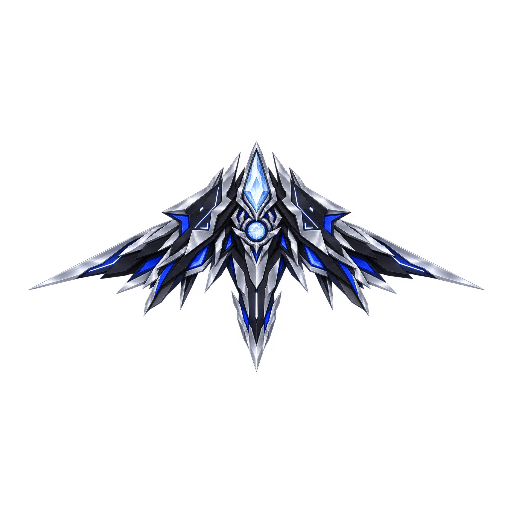
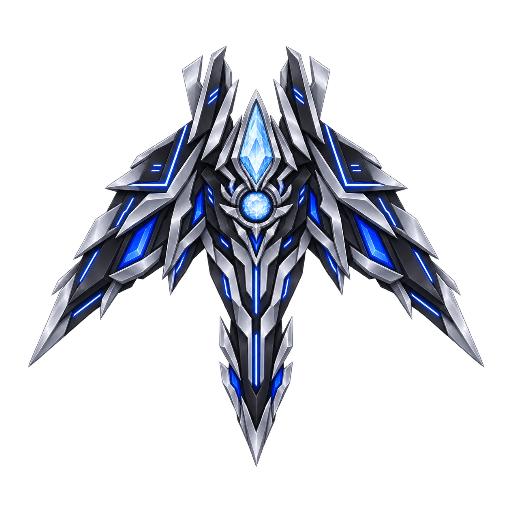
V233C (thử): SS tàu 6 vẽ lại đúng tỉ lệ, bỏ phóng thân tạm
Claude-Session: https://claude.ai/code/session_01AseaWCP472YazYg4XKBJxW

Changed region(s): [[0.0625, 0.0938, 0.9375, 0.9062]]

diff --git a/src/btfx218.js b/src/btfx218.js
@@ -83,7 +83,7 @@
   //  chủ dự án chọn 12/11 11:10): độ chói → màu tuyệt đối, vẽ cộng sáng. Mỗi bậc: tỉ lệ cánh k, lệch gốc vai off (so với bậc tím).
   //  Nhịp học từ video 86546 (soi 15 khung/giây): dồn sáng sau lưng ~0,35 s → bừng sáng ở tâm (không vòng tròn) → cánh hiện ~85 % cỡ
   //  rồi xòe ra trong ~0,28 s (vượt nhẹ rồi về) → giữ: cánh lay, thở, tàn lửa rơi. Tắt: window.BUNG231=false
-  const RAMP={5:{"thuong":{"k":0.62,"img":"so","fx":1536,"off":[[19,0],[-14,0]],"bung":[[0.0,0,0,0],[0.0312,0,0,0],[0.0625,0,0,0],[0.0938,0,0,0],[0.125,0,0,0],[0.1562,0,0,0],[0.1875,0,0,0],[0.2188,0,0,0],[0.25,0,0,0],[0.2812,0,0,0],[0.3125,4,5,6],[0.3438,17,21,27],[0.375,31,38,49],[0.4062,45,56,71],[0.4375,58,71,90],[0.4688,68,84,107],[0.5,77,95,121],[0.5312,82,101,129],[0.5625,86,107,135],[0.5938,89,111,141],[0.625,91,113,144],[0.6562,93,115,145],[0.6875,99,119,147],[0.7188,104,123,148],[0.75,112,128,151],[0.7812,121,136,156],[0.8125,132,144,163],[0.8438,141,152,168],[0.875,150,158,171],[0.9062,157,163,173],[0.9375,163,167,174],[0.9688,169,173,181],[1.0,169,173,181]]},"luc":{"k":0.74,"img":"so","fx":1536,"off":[[-18,0],[23,0]],"bung":[[0.0,0,0,0],[0.0312,0,0,0],[0.0625,0,0,0],[0.0938,0,0,0],[0.125,0,0,0],[0.1562,0,0,0],[0.1875,0,0,0],[0.2188,8,10,3],[0.25,25,30,10],[0.2812,44,52,17],[0.3125,62,74,24],[0.3438,80,94,30],[0.375,97,113,35],[0.4062,110,128,38],[0.4375,122,140,41],[0.4688,130,148,42],[0.5,137,154,43],[0.5312,143,160,43],[0.5625,148,163,42],[0.5938,151,165,41],[0.625,153,166,50],[0.6562,155,167,61],[0.6875,158,169,72],[0.7188,162,172,85],[0.75,168,178,99],[0.7812,176,184,114],[0.8125,182,190,129],[0.8438,187,193,144],[0.875,190,196,159],[0.9062,193,197,172],[0.9375,197,201,181],[0.9688,202,206,186],[1.0,202,206,186]]},"lam":{"k":0.87,"img":"so","fx":1536,"off":[[-8,0],[13,0]],"bung":[[0.0,0,0,0],[0.0312,0,0,0],[0.0625,0,0,0],[0.0938,0,0,0],[0.125,3,4,13],[0.1562,8,11,34],[0.1875,14,18,56],[0.2188,21,27,78],[0.25,28,38,99],[0.2812,35,50,118],[0.3125,42,62,134],[0.3438,49,74,149],[0.375,55,85,159],[0.4062,60,95,167],[0.4375,65,105,173],[0.4688,70,116,179],[0.5,74,125,182],[0.5312,78,133,184],[0.5625,84,140,186],[0.5938,92,145,187],[0.625,101,150,188],[0.6562,111,155,191],[0.6875,121,162,194],[0.7188,134,171,200],[0.75,147,181,206],[0.7812,160,189,211],[0.8125,173,198,216],[0.8438,185,205,219],[0.875,197,211,221],[0.9062,208,217,222],[0.9375,214,222,227],[0.9688,217,226,231],[1.0,217,226,231]]},"tim":{"k":1,"img":"so","mau":"so_mau","fx":1536,"off":[[0,0],[0,0]],"bung":[[0.0,0,0,0],[0.034,0,11,17],[0.09,0,28,56],[0.156,0,47,101],[0.217,0,65,137],[0.283,1,85,167],[0.343,6,107,182],[0.407,11,131,194],[0.47,19,155,200],[0.532,32,176,203],[0.595,50,194,205],[0.658,69,211,206],[0.721,98,224,206],[0.783,133,234,206],[0.845,176,239,207],[0.911,224,242,207],[0.949,251,245,207]]},"tim5":{"k":1,"img":"so","fx":1536,"off":[[-29,0],[34,0]],"bung":[[0.0,0,0,0],[0.0312,11,3,17],[0.0625,26,8,40],[0.0938,41,13,63],[0.125,58,18,86],[0.1562,77,25,109],[0.1875,95,31,129],[0.2188,114,38,149],[0.25,130,44,164],[0.2812,148,51,179],[0.3125,161,56,188],[0.3438,174,62,197],[0.375,186,67,203],[0.4062,199,72,209],[0.4375,208,77,213],[0.4688,216,80,213],[0.5,218,82,209],[0.5312,219,92,211],[0.5625,220,102,213],[0.5938,221,112,214],[0.625,224,124,218],[0.6562,228,136,222],[0.6875,234,150,229],[0.7188,241,165,237],[0.75,247,180,243],[0.7812,252,195,249],[0.8125,255,209,253],[0.8438,255,222,255],[0.875,255,235,255],[0.9062,255,246,255],[0.9375,255,252,255],[0.9688,255,255,255],[1.0,255,255,255]],"bung3":[[0.0,0,0,0],[0.0312,11,3,13],[0.0625,27,8,30],[0.0938,43,13,47],[0.125,59,19,65],[0.1562,75,26,82],[0.1875,89,33,97],[0.2188,103,41,112],[0.25,114,48,123],[0.2812,125,56,135],[0.3125,132,62,141],[0.3438,138,69,148],[0.375,143,74,152],[0.4062,148,81,157],[0.4375,151,86,159],[0.4688,154,91,162],[0.5,156,96,163],[0.5312,158,101,164],[0.5625,159,105,165],[0.5938,160,110,166],[0.625,163,115,168],[0.6562,166,121,171],[0.6875,172,129,176],[0.7188,177,138,181],[0.75,182,145,185],[0.7812,187,153,189],[0.8125,190,160,191],[0.8438,192,166,194],[0.875,194,172,195],[0.9062,196,177,196],[0.9375,201,181,201],[0.9688,203,183,203],[1.0,203,183,203]],"img3":"so3"},"ss":{"k":1.08,"img":"so","fx":1536,"off":[[19,0],[-13,0]],"bung":[[0.0,0,0,0],[0.0312,2,4,18],[0.0625,5,11,42],[0.0938,8,17,67],[0.125,12,25,92],[0.1562,16,34,116],[0.1875,21,43,138],[0.2188,25,54,158],[0.25,29,63,175],[0.2812,33,74,191],[0.3125,37,82,201],[0.3438,40,91,209],[0.375,43,98,216],[0.4062,47,107,223],[0.4375,49,114,226],[0.4688,52,121,230],[0.5,55,127,232],[0.5312,68,136,233],[0.5625,82,145,235],[0.5938,96,153,236],[0.625,110,163,239],[0.6562,126,174,242],[0.6875,144,188,250],[0.7188,163,202,255],[0.75,181,215,255],[0.7812,200,229,255],[0.8125,218,241,255],[0.8438,236,253,255],[0.875,253,255,255],[0.9062,255,255,255],[0.9375,255,255,255],[0.9688,255,255,255],[1.0,255,255,255]],"bung3":[[0.0,0,0,0],[0.0312,4,10,18],[0.0625,10,23,42],[0.0938,16,37,67],[0.125,24,52,92],[0.1562,33,67,116],[0.1875,43,82,138],[0.2188,54,97,158],[0.25,64,109,175],[0.2812,76,123,191],[0.3125,85,132,201],[0.3438,94,141,209],[0.375,103,149,216],[0.4062,113,158,223],[0.4375,121,164,226],[0.4688,129,170,230],[0.5,136,175,232],[0.5312,144,180,233],[0.5625,151,185,235],[0.5938,158,189,236],[0.625,167,196,239],[0.6562,176,203,242],[0.6875,188,213,250],[0.7188,201,223,255],[0.75,213,232,255],[0.7812,225,242,255],[0.8125,235,249,255],[0.8438,245,255,255],[0.875,254,255,255],[0.9062,255,255,255],[0.9375,255,255,255],[0.9688,255,255,255],[1.0,255,255,255]],"img3":"so3"}},6:{"thuong":{"k":0.62,"img":"kiem","fx":1280,"off":[[59,0],[-59,0]],"bung":[[0.0,0,0,0],[0.0312,0,0,0],[0.0625,0,0,0],[0.0938,0,0,0],[0.125,0,0,0],[0.1562,0,0,0],[0.1875,0,0,0],[0.2188,0,0,0],[0.25,0,0,0],[0.2812,0,0,0],[0.3125,2,5,8],[0.3438,6,17,26],[0.375,11,30,45],[0.4062,18,43,65],[0.4375,26,58,87],[0.4688,36,73,109],[0.5,46,85,128],[0.5312,51,87,130],[0.5625,58,92,137],[0.5938,66,97,145],[0.625,74,102,152],[0.6562,82,107,158],[0.6875,91,115,163],[0.7188,100,124,168],[0.75,110,134,173],[0.7812,120,143,177],[0.8125,129,151,180],[0.8438,137,158,181],[0.875,144,164,181],[0.9062,151,170,181],[0.9375,156,174,181],[0.9688,157,174,181],[1.0,157,174,181]]},"luc":{"k":0.74,"img":"kiem","fx":1280,"off":[[-5,0],[5,0]],"bung":[[0.0,0,0,0],[0.0312,0,0,0],[0.0625,0,0,0],[0.0938,0,0,0],[0.125,0,0,0],[0.1562,0,0,0],[0.1875,0,0,0],[0.2188,2,12,5],[0.25,4,30,13],[0.2812,7,48,20],[0.3125,11,68,29],[0.3438,17,90,39],[0.375,24,112,49],[0.4062,31,133,59],[0.4375,38,146,65],[0.4688,42,149,66],[0.5,47,156,70],[0.5312,54,165,74],[0.5625,60,172,78],[0.5938,66,178,81],[0.625,76,184,90],[0.6562,87,188,100],[0.6875,98,193,111],[0.7188,110,198,122],[0.75,122,202,133],[0.7812,134,205,143],[0.8125,144,206,153],[0.8438,154,207,161],[0.875,164,207,170],[0.9062,174,206,178],[0.9375,178,206,182],[0.9688,178,207,182],[1.0,178,207,182]]},"lam":{"k":0.87,"img":"kiem","fx":1280,"off":[[3,0],[-4,0]],"bung":[[0.0,0,0,0],[0.0312,0,0,0],[0.0625,0,0,0],[0.0938,0,0,0],[0.125,3,5,16],[0.1562,5,10,33],[0.1875,8,16,51],[0.2188,12,25,71],[0.25,16,36,92],[0.2812,20,49,114],[0.3125,25,64,136],[0.3438,30,81,158],[0.375,32,92,165],[0.4062,34,100,167],[0.4375,37,112,176],[0.4688,40,125,184],[0.5,43,137,191],[0.5312,46,150,197],[0.5625,53,161,203],[0.5938,67,168,208],[0.625,81,175,213],[0.6562,96,183,218],[0.6875,112,191,223],[0.7188,128,198,226],[0.75,144,205,230],[0.7812,159,210,231],[0.8125,174,215,232],[0.8438,188,219,232],[0.875,202,223,232],[0.9062,216,226,231],[0.9375,218,227,231],[0.9688,218,227,232],[1.0,218,227,232]]},"tim":{"k":1,"img":"kiem","mau":"kiem_mau","fx":1280,"off":[[0,0],[0,0]],"bung":[[0.0,0,0,0],[0.03,19,3,0],[0.09,51,13,0],[0.155,92,20,0],[0.217,135,26,0],[0.279,177,31,1],[0.342,182,55,5],[0.406,199,73,6],[0.47,213,95,6],[0.532,224,115,6],[0.597,233,139,3],[0.658,243,161,3],[0.724,250,184,5],[0.785,252,209,11],[0.846,252,229,52],[0.913,251,241,155],[0.953,252,245,215]]},"tim5":{"k":1,"img":"kiem","fx":1280,"off":[[-42,0],[40,0]],"bung":[[0.0,0,0,0],[0.0312,21,6,3],[0.0625,39,10,5],[0.0938,58,15,8],[0.125,79,24,11],[0.1562,100,35,15],[0.1875,124,49,19],[0.2188,147,65,24],[0.25,170,83,29],[0.2812,191,102,34],[0.3125,194,113,36],[0.3438,197,124,38],[0.375,206,139,42],[0.4062,215,155,45],[0.4375,222,171,49],[0.4688,230,187,52],[0.5,236,203,55],[0.5312,242,211,70],[0.5625,246,218,85],[0.5938,251,225,101],[0.625,255,232,117],[0.6562,255,240,134],[0.6875,255,246,151],[0.7188,255,253,167],[0.75,255,255,183],[0.7812,255,255,199],[0.8125,255,255,214],[0.8438,255,255,229],[0.875,255,255,244],[0.9062,255,255,255],[0.9375,255,255,255],[0.9688,255,255,255],[1.0,255,255,255]],"bung3":[[0.0,0,0,0],[0.0312,16,4,7],[0.0625,29,7,13],[0.0938,43,10,19],[0.125,59,15,27],[0.1562,75,21,35],[0.1875,93,29,45],[0.2188,110,38,56],[0.25,127,47,68],[0.2812,144,57,79],[0.3125,146,62,83],[0.3438,148,67,88],[0.375,155,74,95],[0.4062,161,81,102],[0.4375,167,89,109],[0.4688,172,97,116],[0.5,177,104,123],[0.5312,181,112,130],[0.5625,185,119,136],[0.5938,188,126,143],[0.625,192,134,150],[0.6562,197,143,157],[0.6875,199,150,164],[0.7188,202,158,170],[0.75,203,164,175],[0.7812,204,171,180],[0.8125,204,176,184],[0.8438,204,182,189],[0.875,204,187,192],[0.9062,203,191,195],[0.9375,204,192,196],[0.9688,204,192,196],[1.0,204,192,196]],"img3":"kiem3"},"ss":{"k":1.08,"img":"kiem","fx":1280,"off":[[-16,0],[15,0]],"bung":[[0.0,0,0,0],[0.0312,23,17,4],[0.0625,42,31,7],[0.0938,61,45,11],[0.125,84,63,16],[0.1562,107,82,21],[0.1875,132,103,28],[0.2188,157,124,36],[0.25,181,146,44],[0.2812,204,167,52],[0.3125,207,173,56],[0.3438,210,178,59],[0.375,219,190,65],[0.4062,229,201,71],[0.4375,237,211,77],[0.4688,245,222,83],[0.5,251,231,89],[0.5312,255,239,103],[0.5625,255,245,118],[0.5938,255,251,133],[0.625,255,255,148],[0.6562,255,255,165],[0.6875,255,255,181],[0.7188,255,255,197],[0.75,255,255,211],[0.7812,255,255,226],[0.8125,255,255,240],[0.8438,255,255,254],[0.875,255,255,255],[0.9062,255,255,255],[0.9375,255,255,255],[0.9688,255,255,255],[1.0,255,255,255]],"bung3":[[0.0,0,0,0],[0.0312,4,23,20],[0.0625,7,42,36],[0.0938,11,61,53],[0.125,17,84,73],[0.1562,24,107,94],[0.1875,33,132,116],[0.2188,44,157,139],[0.25,56,181,161],[0.2812,69,204,182],[0.3125,76,207,186],[0.3438,83,210,190],[0.375,93,219,199],[0.4062,104,229,209],[0.4375,114,237,217],[0.4688,125,245,225],[0.5,135,251,232],[0.5312,146,255,239],[0.5625,156,255,245],[0.5938,167,255,251],[0.625,178,255,255],[0.6562,190,255,255],[0.6875,201,255,255],[0.7188,211,255,255],[0.75,221,255,255],[0.7812,230,255,255],[0.8125,238,255,255],[0.8438,247,255,255],[0.875,254,255,255],[0.9062,255,255,255],[0.9375,255,255,255],[0.9688,255,255,255],[1.0,255,255,255]],"img3":"kiem3"}},7:{"thuong":{"k":0.62,"bung":[[0.0,0,0,0],[0.0312,0,0,0],[0.0625,0,0,0],[0.0938,0,0,0],[0.125,0,0,0],[0.1562,0,0,0],[0.1875,0,0,0],[0.2188,0,0,0],[0.25,0,0,0],[0.2812,0,0,0],[0.3125,8,2,1],[0.3438,26,6,5],[0.375,43,10,8],[0.4062,61,15,11],[0.4375,77,20,15],[0.4688,93,26,18],[0.5,109,32,21],[0.5312,122,38,24],[0.5625,133,43,27],[0.5938,143,49,29],[0.625,152,54,32],[0.6562,157,59,34],[0.6875,163,67,41],[0.7188,171,76,49],[0.75,176,84,56],[0.7812,179,92,63],[0.8125,180,99,70],[0.8438,181,106,77],[0.875,181,112,83],[0.9062,181,118,89],[0.9375,181,123,94],[0.9688,181,123,94],[1.0,181,123,94]],"off":[[-2.0,53.0],[2.0,54.0]]},"luc":{"k":0.74,"bung":[[0.0,0,0,0],[0.0312,0,0,0],[0.0625,0,0,0],[0.0938,0,0,0],[0.125,0,0,0],[0.1562,0,0,0],[0.1875,0,0,0],[0.2188,9,4,12],[0.25,22,10,30],[0.2812,35,16,47],[0.3125,50,24,64],[0.3438,66,32,81],[0.375,83,40,97],[0.4062,102,49,113],[0.4375,120,58,128],[0.4688,138,67,141],[0.5,151,74,149],[0.5312,161,80,152],[0.5625,171,85,155],[0.5938,177,89,154],[0.625,182,96,158],[0.6562,189,107,166],[0.6875,196,117,173],[0.7188,201,127,179],[0.75,203,136,183],[0.7812,205,144,186],[0.8125,206,152,188],[0.8438,206,159,190],[0.875,206,167,191],[0.9062,206,174,193],[0.9375,206,177,193],[0.9688,206,177,193],[1.0,206,177,193]],"bung2":[[0.0,0,0,0],[0.0312,4,4,8],[0.0625,8,8,16],[0.0938,11,12,24],[0.125,15,16,32],[0.1562,19,21,39],[0.1875,23,25,47],[0.2188,26,29,55],[0.25,30,33,63],[0.2812,34,37,71],[0.3125,37,40,77],[0.3438,39,42,81],[0.375,40,44,85],[0.4062,42,46,88],[0.4375,44,48,92],[0.4688,46,50,96],[0.5,47,52,99],[0.5312,49,54,103],[0.5625,51,56,107],[0.5938,53,58,110],[0.625,54,59,114],[0.6562,56,61,118],[0.6875,58,63,121],[0.7188,60,65,125],[0.75,62,67,129],[0.7812,63,69,132],[0.8125,65,71,136],[0.8438,66,72,138],[0.875,66,72,138],[0.9062,66,72,138],[0.9375,66,72,138],[0.9688,66,72,138],[1.0,66,72,138]],"off":[[1.0,6.0],[-1.0,7.0]]},"lam":{"k":0.87,"bung":[[0.0,0,0,0],[0.0312,0,0,0],[0.0625,0,0,0],[0.0938,0,0,0],[0.125,4,6,16],[0.1562,8,13,34],[0.1875,13,19,50],[0.2188,19,26,68],[0.25,27,33,85],[0.2812,36,39,101],[0.3125,46,46,117],[0.3438,57,53,133],[0.375,68,59,147],[0.4062,80,65,160],[0.4375,91,70,170],[0.4688,103,75,180],[0.5,115,80,189],[0.5312,127,85,197],[0.5625,136,91,202],[0.5938,145,103,208],[0.625,155,116,215],[0.6562,164,129,221],[0.6875,172,141,226],[0.7188,179,153,228],[0.75,186,164,230],[0.7812,191,175,231],[0.8125,197,185,231],[0.8438,202,196,231],[0.875,207,206,231],[0.9062,212,216,231],[0.9375,213,217,231],[0.9688,213,217,231],[1.0,213,217,231]],"bung2":[[0.0,0,0,0],[0.0312,4,10,12],[0.0625,9,19,25],[0.0938,13,29,37],[0.125,18,39,50],[0.1562,22,49,62],[0.1875,26,58,74],[0.2188,31,68,87],[0.25,35,78,99],[0.2812,39,87,112],[0.3125,43,95,121],[0.3438,45,100,127],[0.375,47,104,133],[0.4062,49,109,139],[0.4375,51,113,144],[0.4688,53,118,150],[0.5,55,122,156],[0.5312,57,127,162],[0.5625,59,131,167],[0.5938,61,136,173],[0.625,63,140,179],[0.6562,65,145,185],[0.6875,67,149,190],[0.7188,69,154,196],[0.75,71,158,202],[0.7812,73,163,208],[0.8125,75,167,214],[0.8438,77,170,217],[0.875,77,170,217],[0.9062,77,170,217],[0.9375,77,170,217],[0.9688,77,170,217],[1.0,77,170,217]],"off":[[-14.0,-2.0],[14.0,-1.0]]},"tim":{"k":1,"bung":[[0.0,0,0,0],[0.035,22,4,0],[0.094,53,13,0],[0.157,87,23,0],[0.216,117,33,0],[0.279,149,44,0],[0.343,175,59,0],[0.406,194,77,2],[0.469,213,94,7],[0.532,222,115,12],[0.596,237,135,18],[0.657,246,157,24],[0.72,250,180,32],[0.782,251,202,51],[0.848,251,224,89],[0.92,251,240,173],[0.946,251,243,206]],"bung2":[[0.0,0,0,0],[0.027,0,9,11],[0.096,6,28,40],[0.148,11,44,67],[0.22,12,67,103],[0.281,16,86,131],[0.342,21,105,153],[0.405,25,128,171],[0.469,11,155,191],[0.533,4,184,203],[0.595,3,211,206],[0.647,43,224,206],[0.717,99,225,206],[0.781,137,232,206],[0.831,166,238,207]],"off":[[0,0],[0,0]]},"tim5":{"k":1,"bung":[[0.0,0,0,0],[0.0312,21,4,9],[0.0625,39,8,17],[0.0938,57,11,25],[0.125,75,17,31],[0.1562,93,25,37],[0.1875,111,35,42],[0.2188,128,45,46],[0.25,145,57,50],[0.2812,162,71,53],[0.3125,176,84,54],[0.3438,189,98,54],[0.375,199,112,54],[0.4062,210,126,53],[0.4375,220,141,51],[0.4688,230,157,49],[0.5,235,170,46],[0.5312,240,179,60],[0.5625,247,189,75],[0.5938,255,201,91],[0.625,255,210,107],[0.6562,255,219,123],[0.6875,255,226,139],[0.7188,255,233,154],[0.75,255,239,169],[0.7812,255,245,184],[0.8125,255,251,198],[0.8438,255,255,213],[0.875,255,255,228],[0.9062,255,255,239],[0.9375,255,255,239],[0.9688,255,255,239],[1.0,255,255,239]],"bung2":[[0.0,0,0,0],[0.0312,7,12,15],[0.0625,15,24,29],[0.0938,22,36,44],[0.125,30,48,58],[0.1562,37,60,73],[0.1875,45,72,88],[0.2188,52,84,102],[0.25,59,96,117],[0.2812,67,108,131],[0.3125,73,118,143],[0.3438,76,123,150],[0.375,80,129,156],[0.4062,83,134,163],[0.4375,87,140,170],[0.4688,90,145,177],[0.5,93,151,183],[0.5312,97,157,190],[0.5625,100,162,197],[0.5938,104,168,204],[0.625,107,173,211],[0.6562,111,179,217],[0.6875,114,185,224],[0.7188,118,190,231],[0.75,121,196,238],[0.7812,125,201,244],[0.8125,128,207,251],[0.8438,130,210,255],[0.875,130,210,255],[0.9062,130,210,255],[0.9375,130,210,255],[0.9688,130,210,255],[1.0,130,210,255]],"bung3":[[0.0,0,0,0],[0.0312,16,2,7],[0.0625,30,5,13],[0.0938,43,7,18],[0.125,56,10,24],[0.1562,70,14,30],[0.1875,83,18,35],[0.2188,96,23,40],[0.25,109,29,44],[0.2812,121,35,49],[0.3125,132,40,52],[0.3438,142,47,56],[0.375,150,52,58],[0.4062,157,59,60],[0.4375,165,65,62],[0.4688,172,72,64],[0.5,176,77,65],[0.5312,180,83,65],[0.5625,186,90,67],[0.5938,192,97,68],[0.625,195,106,77],[0.6562,199,115,89],[0.6875,201,124,100],[0.7188,202,133,111],[0.75,203,141,121],[0.7812,203,149,132],[0.8125,203,157,142],[0.8438,203,165,153],[0.875,203,173,163],[0.9062,203,179,171],[0.9375,203,179,171],[0.9688,203,179,171],[1.0,203,179,171]],"off":[[3.0,-5.0],[-2.0,-3.0]]},"ss":{"k":1.08,"bung":[[0.0,0,0,0],[0.0312,23,6,4],[0.0625,42,12,7],[0.0938,61,17,10],[0.125,80,25,13],[0.1562,100,36,18],[0.1875,118,49,23],[0.2188,136,64,29],[0.25,154,80,35],[0.2812,172,98,41],[0.3125,187,116,47],[0.3438,202,135,54],[0.375,212,153,59],[0.4062,223,172,66],[0.4375,234,193,72],[0.4688,245,208,83],[0.5,250,215,96],[0.5312,255,222,109],[0.5625,255,232,124],[0.5938,255,242,140],[0.625,255,250,155],[0.6562,255,255,170],[0.6875,255,255,184],[0.7188,255,255,198],[0.75,255,255,211],[0.7812,255,255,224],[0.8125,255,255,236],[0.8438,255,255,249],[0.875,255,255,255],[0.9062,255,255,255],[0.9375,255,255,255],[0.9688,255,255,255],[1.0,255,255,255]],"bung2":[[0.0,0,0,0],[0.0312,11,14,15],[0.0625,23,27,29],[0.0938,34,41,44],[0.125,46,55,58],[0.1562,57,69,73],[0.1875,69,82,88],[0.2188,80,96,102],[0.25,92,110,117],[0.2812,103,124,131],[0.3125,112,134,143],[0.3438,117,141,150],[0.375,123,147,156],[0.4062,128,153,163],[0.4375,133,160,170],[0.4688,139,166,177],[0.5,144,173,183],[0.5312,149,179,190],[0.5625,154,185,197],[0.5938,160,192,204],[0.625,165,198,211],[0.6562,170,205,217],[0.6875,176,211,224],[0.7188,181,217,231],[0.75,186,224,238],[0.7812,192,230,244],[0.8125,197,236,251],[0.8438,200,240,255],[0.875,200,240,255],[0.9062,200,240,255],[0.9375,200,240,255],[0.9688,200,240,255],[1.0,200,240,255]],"bung3":[[0.0,0,0,0],[0.0312,8,5,23],[0.0625,15,10,42],[0.0938,21,14,61],[0.125,29,21,80],[0.1562,37,28,100],[0.1875,45,37,118],[0.2188,53,46,136],[0.25,62,56,154],[0.2812,71,68,172],[0.3125,78,78,187],[0.3438,87,90,202],[0.375,93,100,212],[0.4062,100,111,223],[0.4375,107,123,234],[0.4688,115,136,245],[0.5,120,145,250],[0.5312,125,155,255],[0.5625,131,167,255],[0.5938,138,180,255],[0.625,151,192,255],[0.6562,166,204,255],[0.6875,180,215,255],[0.7188,193,225,255],[0.75,206,234,255],[0.7812,219,244,255],[0.8125,231,253,255],[0.8438,244,255,255],[0.875,255,255,255],[0.9062,255,255,255],[0.9375,255,255,255],[0.9688,255,255,255],[1.0,255,255,255]],"off":[[13.0,-36.0],[-12.0,-34.0]]}}};
+  const RAMP={5:{"thuong":{"k":0.62,"img":"so","fx":1536,"off":[[19,0],[-14,0]],"bung":[[0.0,0,0,0],[0.0312,0,0,0],[0.0625,0,0,0],[0.0938,0,0,0],[0.125,0,0,0],[0.1562,0,0,0],[0.1875,0,0,0],[0.2188,0,0,0],[0.25,0,0,0],[0.2812,0,0,0],[0.3125,4,5,6],[0.3438,17,21,27],[0.375,31,38,49],[0.4062,45,56,71],[0.4375,58,71,90],[0.4688,68,84,107],[0.5,77,95,121],[0.5312,82,101,129],[0.5625,86,107,135],[0.5938,89,111,141],[0.625,91,113,144],[0.6562,93,115,145],[0.6875,99,119,147],[0.7188,104,123,148],[0.75,112,128,151],[0.7812,121,136,156],[0.8125,132,144,163],[0.8438,141,152,168],[0.875,150,158,171],[0.9062,157,163,173],[0.9375,163,167,174],[0.9688,169,173,181],[1.0,169,173,181]]},"luc":{"k":0.74,"img":"so","fx":1536,"off":[[-18,0],[23,0]],"bung":[[0.0,0,0,0],[0.0312,0,0,0],[0.0625,0,0,0],[0.0938,0,0,0],[0.125,0,0,0],[0.1562,0,0,0],[0.1875,0,0,0],[0.2188,8,10,3],[0.25,25,30,10],[0.2812,44,52,17],[0.3125,62,74,24],[0.3438,80,94,30],[0.375,97,113,35],[0.4062,110,128,38],[0.4375,122,140,41],[0.4688,130,148,42],[0.5,137,154,43],[0.5312,143,160,43],[0.5625,148,163,42],[0.5938,151,165,41],[0.625,153,166,50],[0.6562,155,167,61],[0.6875,158,169,72],[0.7188,162,172,85],[0.75,168,178,99],[0.7812,176,184,114],[0.8125,182,190,129],[0.8438,187,193,144],[0.875,190,196,159],[0.9062,193,197,172],[0.9375,197,201,181],[0.9688,202,206,186],[1.0,202,206,186]]},"lam":{"k":0.87,"img":"so","fx":1536,"off":[[-8,0],[13,0]],"bung":[[0.0,0,0,0],[0.0312,0,0,0],[0.0625,0,0,0],[0.0938,0,0,0],[0.125,3,4,13],[0.1562,8,11,34],[0.1875,14,18,56],[0.2188,21,27,78],[0.25,28,38,99],[0.2812,35,50,118],[0.3125,42,62,134],[0.3438,49,74,149],[0.375,55,85,159],[0.4062,60,95,167],[0.4375,65,105,173],[0.4688,70,116,179],[0.5,74,125,182],[0.5312,78,133,184],[0.5625,84,140,186],[0.5938,92,145,187],[0.625,101,150,188],[0.6562,111,155,191],[0.6875,121,162,194],[0.7188,134,171,200],[0.75,147,181,206],[0.7812,160,189,211],[0.8125,173,198,216],[0.8438,185,205,219],[0.875,197,211,221],[0.9062,208,217,222],[0.9375,214,222,227],[0.9688,217,226,231],[1.0,217,226,231]]},"tim":{"k":1,"img":"so","mau":"so_mau","fx":1536,"off":[[0,0],[0,0]],"bung":[[0.0,0,0,0],[0.034,0,11,17],[0.09,0,28,56],[0.156,0,47,101],[0.217,0,65,137],[0.283,1,85,167],[0.343,6,107,182],[0.407,11,131,194],[0.47,19,155,200],[0.532,32,176,203],[0.595,50,194,205],[0.658,69,211,206],[0.721,98,224,206],[0.783,133,234,206],[0.845,176,239,207],[0.911,224,242,207],[0.949,251,245,207]]},"tim5":{"k":1,"img":"so","fx":1536,"off":[[-18,0],[24,0]],"bung":[[0.0,0,0,0],[0.0312,11,3,17],[0.0625,26,8,40],[0.0938,41,13,63],[0.125,58,18,86],[0.1562,77,25,109],[0.1875,95,31,129],[0.2188,114,38,149],[0.25,130,44,164],[0.2812,148,51,179],[0.3125,161,56,188],[0.3438,174,62,197],[0.375,186,67,203],[0.4062,199,72,209],[0.4375,208,77,213],[0.4688,216,80,213],[0.5,218,82,209],[0.5312,219,92,211],[0.5625,220,102,213],[0.5938,221,112,214],[0.625,224,124,218],[0.6562,228,136,222],[0.6875,234,150,229],[0.7188,241,165,237],[0.75,247,180,243],[0.7812,252,195,249],[0.8125,255,209,253],[0.8438,255,222,255],[0.875,255,235,255],[0.9062,255,246,255],[0.9375,255,252,255],[0.9688,255,255,255],[1.0,255,255,255]],"bung3":[[0.0,0,0,0],[0.0312,11,3,13],[0.0625,27,8,30],[0.0938,43,13,47],[0.125,59,19,65],[0.1562,75,26,82],[0.1875,89,33,97],[0.2188,103,41,112],[0.25,114,48,123],[0.2812,125,56,135],[0.3125,132,62,141],[0.3438,138,69,148],[0.375,143,74,152],[0.4062,148,81,157],[0.4375,151,86,159],[0.4688,154,91,162],[0.5,156,96,163],[0.5312,158,101,164],[0.5625,159,105,165],[0.5938,160,110,166],[0.625,163,115,168],[0.6562,166,121,171],[0.6875,172,129,176],[0.7188,177,138,181],[0.75,182,145,185],[0.7812,187,153,189],[0.8125,190,160,191],[0.8438,192,166,194],[0.875,194,172,195],[0.9062,196,177,196],[0.9375,201,181,201],[0.9688,203,183,203],[1.0,203,183,203]],"img3":"so3"},"ss":{"k":1.08,"img":"so","fx":1536,"off":[[-21,0],[26,0]],"bung":[[0.0,0,0,0],[0.0312,2,4,18],[0.0625,5,11,42],[0.0938,8,17,67],[0.125,12,25,92],[0.1562,16,34,116],[0.1875,21,43,138],[0.2188,25,54,158],[0.25,29,63,175],[0.2812,33,74,191],[0.3125,37,82,201],[0.3438,40,91,209],[0.375,43,98,216],[0.4062,47,107,223],[0.4375,49,114,226],[0.4688,52,121,230],[0.5,55,127,232],[0.5312,68,136,233],[0.5625,82,145,235],[0.5938,96,153,236],[0.625,110,163,239],[0.6562,126,174,242],[0.6875,144,188,250],[0.7188,163,202,255],[0.75,181,215,255],[0.7812,200,229,255],[0.8125,218,241,255],[0.8438,236,253,255],[0.875,253,255,255],[0.9062,255,255,255],[0.9375,255,255,255],[0.9688,255,255,255],[1.0,255,255,255]],"bung3":[[0.0,0,0,0],[0.0312,4,10,18],[0.0625,10,23,42],[0.0938,16,37,67],[0.125,24,52,92],[0.1562,33,67,116],[0.1875,43,82,138],[0.2188,54,97,158],[0.25,64,109,175],[0.2812,76,123,191],[0.3125,85,132,201],[0.3438,94,141,209],[0.375,103,149,216],[0.4062,113,158,223],[0.4375,121,164,226],[0.4688,129,170,230],[0.5,136,175,232],[0.5312,144,180,233],[0.5625,151,185,235],[0.5938,158,189,236],[0.625,167,196,239],[0.6562,176,203,242],[0.6875,188,213,250],[0.7188,201,223,255],[0.75,213,232,255],[0.7812,225,242,255],[0.8125,235,249,255],[0.8438,245,255,255],[0.875,254,255,255],[0.9062,255,255,255],[0.9375,255,255,255],[0.9688,255,255,255],[1.0,255,255,255]],"img3":"so3"}},6:{"thuong":{"k":0.62,"img":"kiem","fx":1280,"off":[[59,0],[-59,0]],"bung":[[0.0,0,0,0],[0.0312,0,0,0],[0.0625,0,0,0],[0.0938,0,0,0],[0.125,0,0,0],[0.1562,0,0,0],[0.1875,0,0,0],[0.2188,0,0,0],[0.25,0,0,0],[0.2812,0,0,0],[0.3125,2,5,8],[0.3438,6,17,26],[0.375,11,30,45],[0.4062,18,43,65],[0.4375,26,58,87],[0.4688,36,73,109],[0.5,46,85,128],[0.5312,51,87,130],[0.5625,58,92,137],[0.5938,66,97,145],[0.625,74,102,152],[0.6562,82,107,158],[0.6875,91,115,163],[0.7188,100,124,168],[0.75,110,134,173],[0.7812,120,143,177],[0.8125,129,151,180],[0.8438,137,158,181],[0.875,144,164,181],[0.9062,151,170,181],[0.9375,156,174,181],[0.9688,157,174,181],[1.0,157,174,181]]},"luc":{"k":0.74,"img":"kiem","fx":1280,"off":[[-5,0],[5,0]],"bung":[[0.0,0,0,0],[0.0312,0,0,0],[0.0625,0,0,0],[0.0938,0,0,0],[0.125,0,0,0],[0.1562,0,0,0],[0.1875,0,0,0],[0.2188,2,12,5],[0.25,4,30,13],[0.2812,7,48,20],[0.3125,11,68,29],[0.3438,17,90,39],[0.375,24,112,49],[0.4062,31,133,59],[0.4375,38,146,65],[0.4688,42,149,66],[0.5,47,156,70],[0.5312,54,165,74],[0.5625,60,172,78],[0.5938,66,178,81],[0.625,76,184,90],[0.6562,87,188,100],[0.6875,98,193,111],[0.7188,110,198,122],[0.75,122,202,133],[0.7812,134,205,143],[0.8125,144,206,153],[0.8438,154,207,161],[0.875,164,207,170],[0.9062,174,206,178],[0.9375,178,206,182],[0.9688,178,207,182],[1.0,178,207,182]]},"lam":{"k":0.87,"img":"kiem","fx":1280,"off":[[3,0],[-4,0]],"bung":[[0.0,0,0,0],[0.0312,0,0,0],[0.0625,0,0,0],[0.0938,0,0,0],[0.125,3,5,16],[0.1562,5,10,33],[0.1875,8,16,51],[0.2188,12,25,71],[0.25,16,36,92],[0.2812,20,49,114],[0.3125,25,64,136],[0.3438,30,81,158],[0.375,32,92,165],[0.4062,34,100,167],[0.4375,37,112,176],[0.4688,40,125,184],[0.5,43,137,191],[0.5312,46,150,197],[0.5625,53,161,203],[0.5938,67,168,208],[0.625,81,175,213],[0.6562,96,183,218],[0.6875,112,191,223],[0.7188,128,198,226],[0.75,144,205,230],[0.7812,159,210,231],[0.8125,174,215,232],[0.8438,188,219,232],[0.875,202,223,232],[0.9062,216,226,231],[0.9375,218,227,231],[0.9688,218,227,232],[1.0,218,227,232]]},"tim":{"k":1,"img":"kiem","mau":"kiem_mau","fx":1280,"off":[[0,0],[0,0]],"bung":[[0.0,0,0,0],[0.03,19,3,0],[0.09,51,13,0],[0.155,92,20,0],[0.217,135,26,0],[0.279,177,31,1],[0.342,182,55,5],[0.406,199,73,6],[0.47,213,95,6],[0.532,224,115,6],[0.597,233,139,3],[0.658,243,161,3],[0.724,250,184,5],[0.785,252,209,11],[0.846,252,229,52],[0.913,251,241,155],[0.953,252,245,215]]},"tim5":{"k":1,"img":"kiem","fx":1280,"off":[[-42,0],[40,0]],"bung":[[0.0,0,0,0],[0.0312,21,6,3],[0.0625,39,10,5],[0.0938,58,15,8],[0.125,79,24,11],[0.1562,100,35,15],[0.1875,124,49,19],[0.2188,147,65,24],[0.25,170,83,29],[0.2812,191,102,34],[0.3125,194,113,36],[0.3438,197,124,38],[0.375,206,139,42],[0.4062,215,155,45],[0.4375,222,171,49],[0.4688,230,187,52],[0.5,236,203,55],[0.5312,242,211,70],[0.5625,246,218,85],[0.5938,251,225,101],[0.625,255,232,117],[0.6562,255,240,134],[0.6875,255,246,151],[0.7188,255,253,167],[0.75,255,255,183],[0.7812,255,255,199],[0.8125,255,255,214],[0.8438,255,255,229],[0.875,255,255,244],[0.9062,255,255,255],[0.9375,255,255,255],[0.9688,255,255,255],[1.0,255,255,255]],"bung3":[[0.0,0,0,0],[0.0312,16,4,7],[0.0625,29,7,13],[0.0938,43,10,19],[0.125,59,15,27],[0.1562,75,21,35],[0.1875,93,29,45],[0.2188,110,38,56],[0.25,127,47,68],[0.2812,144,57,79],[0.3125,146,62,83],[0.3438,148,67,88],[0.375,155,74,95],[0.4062,161,81,102],[0.4375,167,89,109],[0.4688,172,97,116],[0.5,177,104,123],[0.5312,181,112,130],[0.5625,185,119,136],[0.5938,188,126,143],[0.625,192,134,150],[0.6562,197,143,157],[0.6875,199,150,164],[0.7188,202,158,170],[0.75,203,164,175],[0.7812,204,171,180],[0.8125,204,176,184],[0.8438,204,182,189],[0.875,204,187,192],[0.9062,203,191,195],[0.9375,204,192,196],[0.9688,204,192,196],[1.0,204,192,196]],"img3":"kiem3"},"ss":{"k":1.08,"img":"kiem","fx":1280,"off":[[-16,0],[15,0]],"bung":[[0.0,0,0,0],[0.0312,23,17,4],[0.0625,42,31,7],[0.0938,61,45,11],[0.125,84,63,16],[0.1562,107,82,21],[0.1875,132,103,28],[0.2188,157,124,36],[0.25,181,146,44],[0.2812,204,167,52],[0.3125,207,173,56],[0.3438,210,178,59],[0.375,219,190,65],[0.4062,229,201,71],[0.4375,237,211,77],[0.4688,245,222,83],[0.5,251,231,89],[0.5312,255,239,103],[0.5625,255,245,118],[0.5938,255,251,133],[0.625,255,255,148],[0.6562,255,255,165],[0.6875,255,255,181],[0.7188,255,255,197],[0.75,255,255,211],[0.7812,255,255,226],[0.8125,255,255,240],[0.8438,255,255,254],[0.875,255,255,255],[0.9062,255,255,255],[0.9375,255,255,255],[0.9688,255,255,255],[1.0,255,255,255]],"bung3":[[0.0,0,0,0],[0.0312,4,23,20],[0.0625,7,42,36],[0.0938,11,61,53],[0.125,17,84,73],[0.1562,24,107,94],[0.1875,33,132,116],[0.2188,44,157,139],[0.25,56,181,161],[0.2812,69,204,182],[0.3125,76,207,186],[0.3438,83,210,190],[0.375,93,219,199],[0.4062,104,229,209],[0.4375,114,237,217],[0.4688,125,245,225],[0.5,135,251,232],[0.5312,146,255,239],[0.5625,156,255,245],[0.5938,167,255,251],[0.625,178,255,255],[0.6562,190,255,255],[0.6875,201,255,255],[0.7188,211,255,255],[0.75,221,255,255],[0.7812,230,255,255],[0.8125,238,255,255],[0.8438,247,255,255],[0.875,254,255,255],[0.9062,255,255,255],[0.9375,255,255,255],[0.9688,255,255,255],[1.0,255,255,255]],"img3":"kiem3"}},7:{"thuong":{"k":0.62,"bung":[[0.0,0,0,0],[0.0312,0,0,0],[0.0625,0,0,0],[0.0938,0,0,0],[0.125,0,0,0],[0.1562,0,0,0],[0.1875,0,0,0],[0.2188,0,0,0],[0.25,0,0,0],[0.2812,0,0,0],[0.3125,8,2,1],[0.3438,26,6,5],[0.375,43,10,8],[0.4062,61,15,11],[0.4375,77,20,15],[0.4688,93,26,18],[0.5,109,32,21],[0.5312,122,38,24],[0.5625,133,43,27],[0.5938,143,49,29],[0.625,152,54,32],[0.6562,157,59,34],[0.6875,163,67,41],[0.7188,171,76,49],[0.75,176,84,56],[0.7812,179,92,63],[0.8125,180,99,70],[0.8438,181,106,77],[0.875,181,112,83],[0.9062,181,118,89],[0.9375,181,123,94],[0.9688,181,123,94],[1.0,181,123,94]],"off":[[-2.0,53.0],[2.0,54.0]]},"luc":{"k":0.74,"bung":[[0.0,0,0,0],[0.0312,0,0,0],[0.0625,0,0,0],[0.0938,0,0,0],[0.125,0,0,0],[0.1562,0,0,0],[0.1875,0,0,0],[0.2188,9,4,12],[0.25,22,10,30],[0.2812,35,16,47],[0.3125,50,24,64],[0.3438,66,32,81],[0.375,83,40,97],[0.4062,102,49,113],[0.4375,120,58,128],[0.4688,138,67,141],[0.5,151,74,149],[0.5312,161,80,152],[0.5625,171,85,155],[0.5938,177,89,154],[0.625,182,96,158],[0.6562,189,107,166],[0.6875,196,117,173],[0.7188,201,127,179],[0.75,203,136,183],[0.7812,205,144,186],[0.8125,206,152,188],[0.8438,206,159,190],[0.875,206,167,191],[0.9062,206,174,193],[0.9375,206,177,193],[0.9688,206,177,193],[1.0,206,177,193]],"bung2":[[0.0,0,0,0],[0.0312,4,4,8],[0.0625,8,8,16],[0.0938,11,12,24],[0.125,15,16,32],[0.1562,19,21,39],[0.1875,23,25,47],[0.2188,26,29,55],[0.25,30,33,63],[0.2812,34,37,71],[0.3125,37,40,77],[0.3438,39,42,81],[0.375,40,44,85],[0.4062,42,46,88],[0.4375,44,48,92],[0.4688,46,50,96],[0.5,47,52,99],[0.5312,49,54,103],[0.5625,51,56,107],[0.5938,53,58,110],[0.625,54,59,114],[0.6562,56,61,118],[0.6875,58,63,121],[0.7188,60,65,125],[0.75,62,67,129],[0.7812,63,69,132],[0.8125,65,71,136],[0.8438,66,72,138],[0.875,66,72,138],[0.9062,66,72,138],[0.9375,66,72,138],[0.9688,66,72,138],[1.0,66,72,138]],"off":[[1.0,6.0],[-1.0,7.0]]},"lam":{"k":0.87,"bung":[[0.0,0,0,0],[0.0312,0,0,0],[0.0625,0,0,0],[0.0938,0,0,0],[0.125,4,6,16],[0.1562,8,13,34],[0.1875,13,19,50],[0.2188,19,26,68],[0.25,27,33,85],[0.2812,36,39,101],[0.3125,46,46,117],[0.3438,57,53,133],[0.375,68,59,147],[0.4062,80,65,160],[0.4375,91,70,170],[0.4688,103,75,180],[0.5,115,80,189],[0.5312,127,85,197],[0.5625,136,91,202],[0.5938,145,103,208],[0.625,155,116,215],[0.6562,164,129,221],[0.6875,172,141,226],[0.7188,179,153,228],[0.75,186,164,230],[0.7812,191,175,231],[0.8125,197,185,231],[0.8438,202,196,231],[0.875,207,206,231],[0.9062,212,216,231],[0.9375,213,217,231],[0.9688,213,217,231],[1.0,213,217,231]],"bung2":[[0.0,0,0,0],[0.0312,4,10,12],[0.0625,9,19,25],[0.0938,13,29,37],[0.125,18,39,50],[0.1562,22,49,62],[0.1875,26,58,74],[0.2188,31,68,87],[0.25,35,78,99],[0.2812,39,87,112],[0.3125,43,95,121],[0.3438,45,100,127],[0.375,47,104,133],[0.4062,49,109,139],[0.4375,51,113,144],[0.4688,53,118,150],[0.5,55,122,156],[0.5312,57,127,162],[0.5625,59,131,167],[0.5938,61,136,173],[0.625,63,140,179],[0.6562,65,145,185],[0.6875,67,149,190],[0.7188,69,154,196],[0.75,71,158,202],[0.7812,73,163,208],[0.8125,75,167,214],[0.8438,77,170,217],[0.875,77,170,217],[0.9062,77,170,217],[0.9375,77,170,217],[0.9688,77,170,217],[1.0,77,170,217]],"off":[[-14.0,-2.0],[14.0,-1.0]]},"tim":{"k":1,"bung":[[0.0,0,0,0],[0.035,22,4,0],[0.094,53,13,0],[0.157,87,23,0],[0.216,117,33,0],[0.279,149,44,0],[0.343,175,59,0],[0.406,194,77,2],[0.469,213,94,7],[0.532,222,115,12],[0.596,237,135,18],[0.657,246,157,24],[0.72,250,180,32],[0.782,251,202,51],[0.848,251,224,89],[0.92,251,240,173],[0.946,251,243,206]],"bung2":[[0.0,0,0,0],[0.027,0,9,11],[0.096,6,28,40],[0.148,11,44,67],[0.22,12,67,103],[0.281,16,86,131],[0.342,21,105,153],[0.405,25,128,171],[0.469,11,155,191],[0.533,4,184,203],[0.595,3,211,206],[0.647,43,224,206],[0.717,99,225,206],[0.781,137,232,206],[0.831,166,238,207]],"off":[[0,0],[0,0]]},"tim5":{"k":1,"bung":[[0.0,0,0,0],[0.0312,21,4,9],[0.0625,39,8,17],[0.0938,57,11,25],[0.125,75,17,31],[0.1562,93,25,37],[0.1875,111,35,42],[0.2188,128,45,46],[0.25,145,57,50],[0.2812,162,71,53],[0.3125,176,84,54],[0.3438,189,98,54],[0.375,199,112,54],[0.4062,210,126,53],[0.4375,220,141,51],[0.4688,230,157,49],[0.5,235,170,46],[0.5312,240,179,60],[0.5625,247,189,75],[0.5938,255,201,91],[0.625,255,210,107],[0.6562,255,219,123],[0.6875,255,226,139],[0.7188,255,233,154],[0.75,255,239,169],[0.7812,255,245,184],[0.8125,255,251,198],[0.8438,255,255,213],[0.875,255,255,228],[0.9062,255,255,239],[0.9375,255,255,239],[0.9688,255,255,239],[1.0,255,255,239]],"bung2":[[0.0,0,0,0],[0.0312,7,12,15],[0.0625,15,24,29],[0.0938,22,36,44],[0.125,30,48,58],[0.1562,37,60,73],[0.1875,45,72,88],[0.2188,52,84,102],[0.25,59,96,117],[0.2812,67,108,131],[0.3125,73,118,143],[0.3438,76,123,150],[0.375,80,129,156],[0.4062,83,134,163],[0.4375,87,140,170],[0.4688,90,145,177],[0.5,93,151,183],[0.5312,97,157,190],[0.5625,100,162,197],[0.5938,104,168,204],[0.625,107,173,211],[0.6562,111,179,217],[0.6875,114,185,224],[0.7188,118,190,231],[0.75,121,196,238],[0.7812,125,201,244],[0.8125,128,207,251],[0.8438,130,210,255],[0.875,130,210,255],[0.9062,130,210,255],[0.9375,130,210,255],[0.9688,130,210,255],[1.0,130,210,255]],"bung3":[[0.0,0,0,0],[0.0312,16,2,7],[0.0625,30,5,13],[0.0938,43,7,18],[0.125,56,10,24],[0.1562,70,14,30],[0.1875,83,18,35],[0.2188,96,23,40],[0.25,109,29,44],[0.2812,121,35,49],[0.3125,132,40,52],[0.3438,142,47,56],[0.375,150,52,58],[0.4062,157,59,60],[0.4375,165,65,62],[0.4688,172,72,64],[0.5,176,77,65],[0.5312,180,83,65],[0.5625,186,90,67],[0.5938,192,97,68],[0.625,195,106,77],[0.6562,199,115,89],[0.6875,201,124,100],[0.7188,202,133,111],[0.75,203,141,121],[0.7812,203,149,132],[0.8125,203,157,142],[0.8438,203,165,153],[0.875,203,173,163],[0.9062,203,179,171],[0.9375,203,179,171],[0.9688,203,179,171],[1.0,203,179,171]],"off":[[3.0,-5.0],[-2.0,-3.0]]},"ss":{"k":1.08,"bung":[[0.0,0,0,0],[0.0312,23,6,4],[0.0625,42,12,7],[0.0938,61,17,10],[0.125,80,25,13],[0.1562,100,36,18],[0.1875,118,49,23],[0.2188,136,64,29],[0.25,154,80,35],[0.2812,172,98,41],[0.3125,187,116,47],[0.3438,202,135,54],[0.375,212,153,59],[0.4062,223,172,66],[0.4375,234,193,72],[0.4688,245,208,83],[0.5,250,215,96],[0.5312,255,222,109],[0.5625,255,232,124],[0.5938,255,242,140],[0.625,255,250,155],[0.6562,255,255,170],[0.6875,255,255,184],[0.7188,255,255,198],[0.75,255,255,211],[0.7812,255,255,224],[0.8125,255,255,236],[0.8438,255,255,249],[0.875,255,255,255],[0.9062,255,255,255],[0.9375,255,255,255],[0.9688,255,255,255],[1.0,255,255,255]],"bung2":[[0.0,0,0,0],[0.0312,11,14,15],[0.0625,23,27,29],[0.0938,34,41,44],[0.125,46,55,58],[0.1562,57,69,73],[0.1875,69,82,88],[0.2188,80,96,102],[0.25,92,110,117],[0.2812,103,124,131],[0.3125,112,134,143],[0.3438,117,141,150],[0.375,123,147,156],[0.4062,128,153,163],[0.4375,133,160,170],[0.4688,139,166,177],[0.5,144,173,183],[0.5312,149,179,190],[0.5625,154,185,197],[0.5938,160,192,204],[0.625,165,198,211],[0.6562,170,205,217],[0.6875,176,211,224],[0.7188,181,217,231],[0.75,186,224,238],[0.7812,192,230,244],[0.8125,197,236,251],[0.8438,200,240,255],[0.875,200,240,255],[0.9062,200,240,255],[0.9375,200,240,255],[0.9688,200,240,255],[1.0,200,240,255]],"bung3":[[0.0,0,0,0],[0.0312,8,5,23],[0.0625,15,10,42],[0.0938,21,14,61],[0.125,29,21,80],[0.1562,37,28,100],[0.1875,45,37,118],[0.2188,53,46,136],[0.25,62,56,154],[0.2812,71,68,172],[0.3125,78,78,187],[0.3438,87,90,202],[0.375,93,100,212],[0.4062,100,111,223],[0.4375,107,123,234],[0.4688,115,136,245],[0.5,120,145,250],[0.5312,125,155,255],[0.5625,131,167,255],[0.5938,138,180,255],[0.625,151,192,255],[0.6562,166,204,255],[0.6875,180,215,255],[0.7188,193,225,255],[0.75,206,234,255],[0.7812,219,244,255],[0.8125,231,253,255],[0.8438,244,255,255],[0.875,255,255,255],[0.9062,255,255,255],[0.9375,255,255,255],[0.9688,255,255,255],[1.0,255,255,255]],"off":[[13.0,-36.0],[-12.0,-34.0]]}}};
   const PIV={5:[[58,236],[453,236]],6:[[57.4,248.1],[453.9,248.1]],7:[[191.2,183],[320.8,183]]};/* tàu 7: gốc chùm phiến ở mép tấm lưỡi cứng ngoài *//* gốc vai trái / phải bậc tím, khung thân 512 */
   const RC=new Map();
   function rampCv(im,stops,key){let c=RC.get(key);if(c)return c;const w=im.naturalWidth,h=im.naturalHeight;c=document.createElement('canvas');c.width=w;c.height=h;const g=c.getContext('2d',{willReadFrequently:true});g.drawImage(im,0,0);
@@ -175,7 +175,7 @@
     if(s2.id!==id||now-s2.last>.25||now<s2.last){s2.id=id;s2.t0=now;}s2.last=now;const k=Math.min(1,(now-s2.t0)/.25),sc=size/Math.max(im.naturalWidth,im.naturalHeight);
     ctx.save();ctx.translate(x,y);ctx.rotate(rot||0);neonDraw(ctx,im,0,im.naturalWidth,im.naturalHeight,Math.max(im.naturalWidth,im.naturalHeight)*sc,now,id,false,k);ctx.restore();}
   function lift(id,a,ta,size){if(window.LIFT233===false||!RAMP[id])return 0;const r=RAMP[id][(a&&a.__f)||'tim'];if(!r||ta<0||ta>.6)return 0;return -size*.06*Math.sin(Math.PI*Math.min(1,ta/.6));}/* V233 · 2) nhích lên rồi về trong 0,6 s quanh lúc bung. Tắt: LIFT233=false */
-  const SC233={5:{ss:1.3}};/* V233B: SS tàu 6 dáng dẹt ngang, khung 512 bó cánh → vẽ THÂN to hơn 30 % (cánh giữ cỡ, không đổi vùng trúng đạn). Tắt: SCALE233=false */
+  const SC233={};/* V233B: SS tàu 6 dáng dẹt ngang, khung 512 bó cánh → vẽ THÂN to hơn 30 % (cánh giữ cỡ, không đổi vùng trúng đạn). Tắt: SCALE233=false */
   function scale(id,a){if(window.SCALE233===false)return 1;const t=SC233[id];return (t&&t[a&&a.__f])||1;}
   window.BtFx218={back,front,has,neonAt,lift,scale,state:()=>({...st,ships:Object.keys(ART()||{})}),anchors};
 })();
